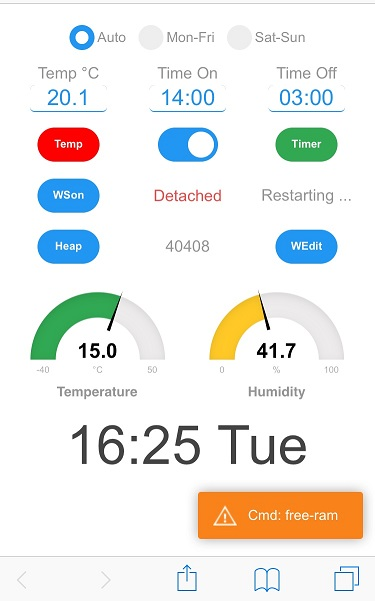
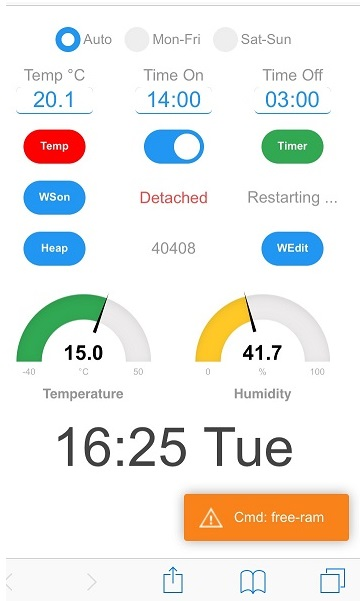
Added notes and screenshots to README.md ESPAsyncWiFiManager (alanswx port) tested Tested choices of ESPAsyncDNSServer and standard DNSServer

diff --git a/examples/SmartSwitch/README.md b/examples/SmartSwitch/README.md
@@ -1,12 +1,12 @@
-![](SCREENSHOT.PNG)
+![](SCREENSHOT.PNG) ![](AWIFIMAN.JPG)
 
-* SmartSwitch application
+## SmartSwitch
 * Based on ESP_AsyncFSBrowser
 * Temperature Control for heater with schedule for car block heater or battery charger
 * Wide browser compatibility, no extra server-side needed.
 * HTTP server and WebSocket, single port  
 * Standalone, no JS dependencies for the browser from Internet (I hope)
-* Based on ESP_AsyncFSBrowser
+* Added ESPAsyncWiFiManager
 * Real Time (NTP) w/ Time Zones
 * Memorized settings to EEPROM
 * Multiple clients can be connected at same time, they see each other requests
